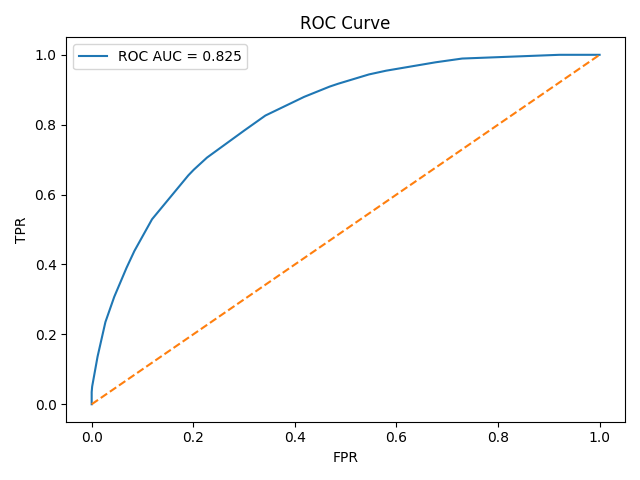
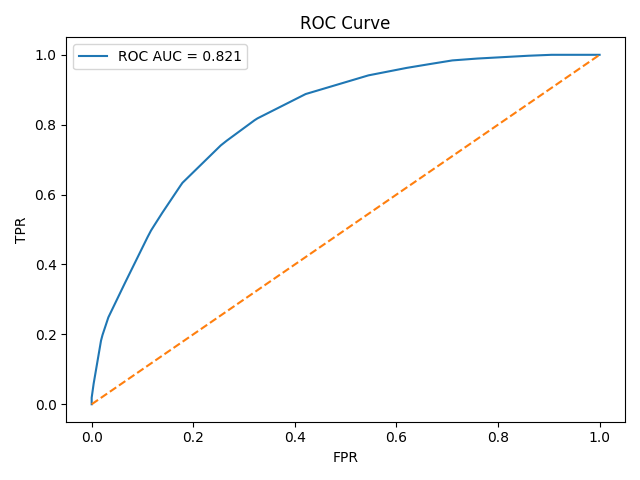
Docs: refresh showcase

diff --git a/docs/metrics.html b/docs/metrics.html
@@ -8,10 +8,10 @@
 <th class="px-3 py-2 text-right">Threshold@10%</th>
 </tr></thead>
 <tbody><tr>
-<td class="px-3 py-2 text-right">0.8247</td>
-<td class="px-3 py-2 text-right">0.6111</td>
-<td class="px-3 py-2 text-right">0.4321</td>
-<td class="px-3 py-2 text-right">0.1424</td>
-<td class="px-3 py-2 text-right">2.772</td>
-<td class="px-3 py-2 text-right">0.600</td>
+<td class="px-3 py-2 text-right">0.8214</td>
+<td class="px-3 py-2 text-right">0.5956</td>
+<td class="px-3 py-2 text-right">0.4364</td>
+<td class="px-3 py-2 text-right">0.1439</td>
+<td class="px-3 py-2 text-right">2.664</td>
+<td class="px-3 py-2 text-right">0.521</td>
 </tr></tbody></table>

diff --git a/docs/report.md b/docs/report.md
@@ -1,25 +1,25 @@
 # Customer Churn — Report
 
-_Generated: 2025-10-12T21:10:52.332700Z_
+_Generated: 2025-10-15T14:27:12.455926Z_
 
 ## Overview
 - Calibrated probabilities, lift@k and profit simulation on the Telco dataset.
 - Models: Logistic Regression / LightGBM / XGBoost.
 
 ## Metrics
-- **roc_auc**: 0.8247074323800666
-- **pr_auc**: 0.6110669525985462
-- **logloss**: 0.43213063382940986
-- **brier**: 0.1423553191251967
-- **lift@k**: 2.7717150496457843
-- **threshold@k**: 0.6
+- **roc_auc**: 0.8213503319641428
+- **pr_auc**: 0.5956216406254929
+- **logloss**: 0.43637511958934777
+- **brier**: 0.14391501148876382
+- **lift@k**: 2.6640756302420643
+- **threshold@k**: 0.5211267605633801
 
 ## Business Insights
 - Top-10% contact list size: **140**.
-- Baseline churn rate: **0.265**; Top-k hit rate: **0.736**.
-- Lift@k: **2.77×**.
-- Expected saves@k: **102.4**; Cost@k (CPS=2.0): **280.00**.
-- LTV: **100**; Expected profit proxy@k: **9960.00**.
+- Baseline churn rate: **0.265**; Top-k hit rate: **0.707**.
+- Lift@k: **2.66×**.
+- Expected saves@k: **99.8**; Cost@k (CPS=2.0): **280.00**.
+- LTV: **100**; Expected profit proxy@k: **9697.46**.
 
 ## Figures
 ![roc_curve.png](reports/figures/roc_curve.png)
